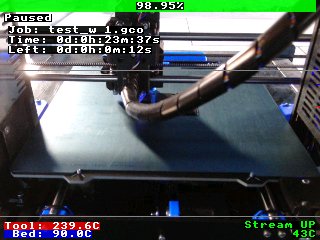
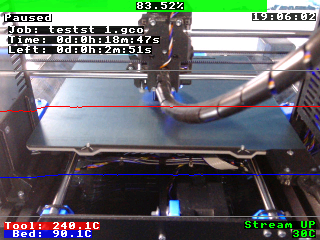
reset completion and print time statistics when OFF update screenshots

diff --git a/octo_monitor.c b/octo_monitor.c
@@ -156,6 +156,9 @@ int main(int argc, char* argv[]) {
                     "printTimeLeft", &print_time_left);
             } else {
                 job_file_name = printer_job_data_fail;
+
+                completion_percent = 0;
+                print_time_left = 0;
             }
 
             const char *state_str = NULL;
@@ -247,6 +250,10 @@ int main(int argc, char* argv[]) {
             }
         } else {
             fbg_writeValue(fbg, 4, 2, 0, 255, 255, 255, "Printer OFF");
+
+            completion_percent = 0;
+            print_time = 0;
+            print_time_left = 0;
         }
 
         fbg_textBackground(fbg, 0, 0, 0, 200);

diff --git a/README.md b/README.md
@@ -30,8 +30,6 @@ ffmpeg -f fbdev -framerate 25 -i /dev/fb0 -c:v libx264 -preset veryfast -maxrate
 ![Prusa 3D printer monitoring with octoprint](/screenshot2.png?raw=true "Prusa 3D printer monitoring with octoprint")
 ![Prusa 3D printer monitoring with octoprint](/screenshot3.png?raw=true "Prusa 3D printer monitoring with octoprint")
 
-Note : Screenshot taken from an earlier version which had a small bug in the temp graph (inversed color), this is fixed.
-
 License
 =====
 
